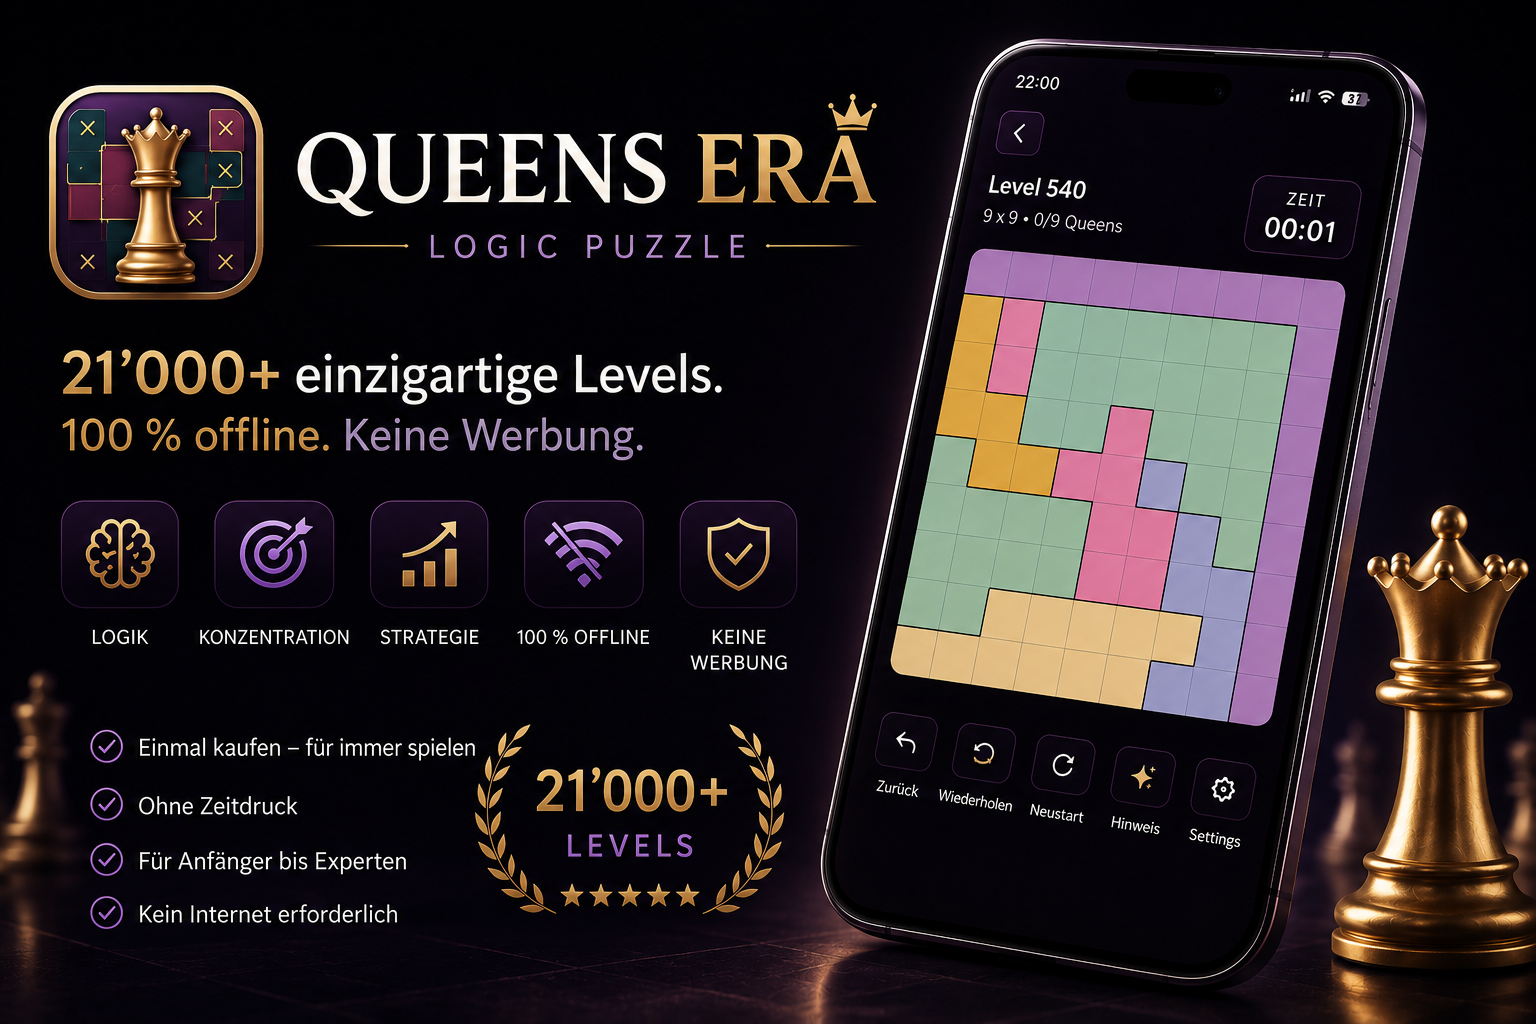
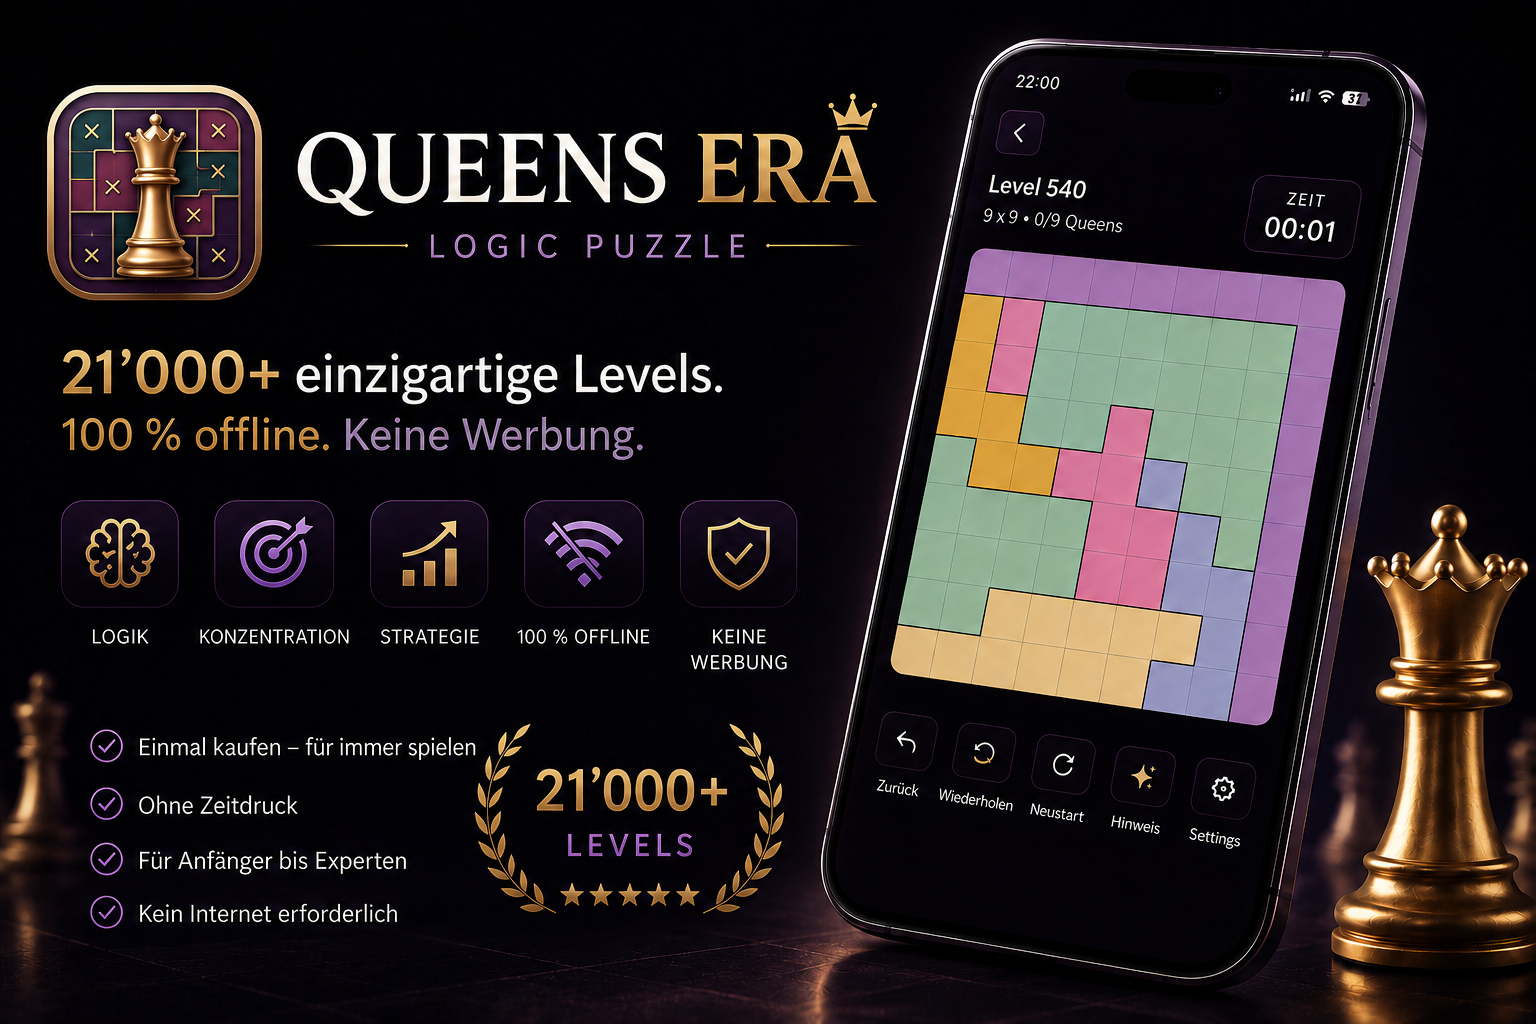
Publish Queens Era release content and localized legal links

diff --git a/i18n.js b/i18n.js
@@ -1432,7 +1432,29 @@ Object.assign(translations.it, {
   "queensSupport.deletion.copy": "I dati locali dell’app possono essere eliminati tramite «Impostazioni → Reimposta tutti i progressi». I dati di acquisto RevenueCat possono essere eliminati direttamente nell’app tramite «Impostazioni → Privacy → Elimina dati di acquisto RevenueCat», finché l’app è installata. La ricevuta di acquisto resta memorizzata presso Apple o Google."
 });
 
-;
+Object.assign(translations.de, {
+  "queensPrivacy.noProfile.title": "Löschung ohne RevenueCat-Profil",
+  "queensPrivacy.noProfile.copy": "Wenn die Kauf- oder Wiederherstellungsfunktion auf einer Installation noch nie geöffnet wurde, wurde RevenueCat dort nicht aktiviert und es besteht kein RevenueCat-Profil. Die Löschfunktion bleibt dennoch erreichbar und entfernt in diesem Fall lediglich eventuell lokal zwischengespeicherte Kaufdaten, ohne ein RevenueCat-Profil anzulegen.",
+  "queensPrivacy.updated.copy": "2. August 2026"
+});
+
+Object.assign(translations.en, {
+  "queensPrivacy.noProfile.title": "Deletion when no RevenueCat profile exists",
+  "queensPrivacy.noProfile.copy": "If the purchase or restore function has never been opened on an installation, RevenueCat has not been activated there and no RevenueCat profile exists. The deletion function remains available and in this case only removes any locally cached purchase data without creating a RevenueCat profile.",
+  "queensPrivacy.updated.copy": "August 2, 2026"
+});
+
+Object.assign(translations.fr, {
+  "queensPrivacy.noProfile.title": "Suppression sans profil RevenueCat",
+  "queensPrivacy.noProfile.copy": "Si la fonction d’achat ou de restauration n’a jamais été ouverte sur une installation, RevenueCat n’y a pas été activé et aucun profil RevenueCat n’existe. La fonction de suppression reste disponible et ne supprime alors que les éventuelles données d’achat mises en cache localement, sans créer de profil RevenueCat.",
+  "queensPrivacy.updated.copy": "2 août 2026"
+});
+
+Object.assign(translations.it, {
+  "queensPrivacy.noProfile.title": "Eliminazione senza profilo RevenueCat",
+  "queensPrivacy.noProfile.copy": "Se la funzione di acquisto o ripristino non è mai stata aperta in un’installazione, RevenueCat non è stato attivato e non esiste alcun profilo RevenueCat. La funzione di eliminazione resta comunque disponibile e in questo caso rimuove soltanto eventuali dati di acquisto memorizzati localmente, senza creare un profilo RevenueCat.",
+  "queensPrivacy.updated.copy": "2 agosto 2026"
+});
 
 const queensStoreBadges = {
   de: {
@@ -1532,7 +1554,13 @@ try {
   savedLanguage = "de";
 }
 
-applyLanguage(savedLanguage);
+// Links opened from an app can pin the language explicitly. This must win over
+// an older browser preference; otherwise an English app could still land on a
+// German legal document (or vice versa).
+const linkedLanguage = new URLSearchParams(window.location.search).get("lang");
+applyLanguage(
+  Object.prototype.hasOwnProperty.call(translations, linkedLanguage) ? linkedLanguage : savedLanguage,
+);
 
 if (trigger && menu) {
   trigger.addEventListener("click", () => {

diff --git a/queens-era.html b/queens-era.html
@@ -9,11 +9,11 @@
     <meta property="og:description" content="Ruhige Logikr&auml;tsel ohne Konto und ohne Werbung. Demn&auml;chst f&uuml;r iPhone und Android: 50 Levels gratis, danach Vollversion als einmaliger Kauf." data-i18n="queens.meta.ogDescription" data-i18n-attr="content" />
     <meta property="og:type" content="website" />
     <meta property="og:url" content="https://wittmerappcare.ch/queens-era" />
-    <meta property="og:image" content="https://wittmerappcare.ch/images/queens-era-hero.png" />
+    <meta property="og:image" content="https://wittmerappcare.ch/images/queens-era-hero.png?v=2" />
     <link rel="canonical" href="https://wittmerappcare.ch/queens-era" />
-    <link rel="icon" href="/images/queens-era-app-icon.png?v=2" type="image/png" />
-    <link rel="apple-touch-icon" href="/images/queens-era-app-icon.png?v=2" />
-    <link rel="stylesheet" href="styles.css?v=16" />
+    <link rel="icon" href="/images/queens-era-app-icon.png?v=4" type="image/png" />
+    <link rel="apple-touch-icon" href="/images/queens-era-app-icon.png?v=4" />
+    <link rel="stylesheet" href="styles.css?v=17" />
   </head>
   <body>
     <header class="site-header">
@@ -57,7 +57,7 @@
           <div class="product-hero-copy">
             <a class="back-link product-back" href="/#arbeiten" data-i18n="queens.back">Zur&uuml;ck zur Projekt&uuml;bersicht</a>
             <div class="product-topline">
-              <span class="product-icon-wrap"><img class="product-icon" src="images/queens-era-app-icon.png" alt="Queens Era Icon" data-i18n="queens.hero.iconAlt" data-i18n-attr="alt" /></span>
+              <span class="product-icon-wrap"><img class="product-icon" src="images/queens-era-app-icon.png?v=4" alt="Queens Era Icon" data-i18n="queens.hero.iconAlt" data-i18n-attr="alt" /></span>
               <p class="eyebrow" data-i18n="queens.kicker">Projekt 04 / 2026</p>
             </div>
             <h1>Queens Era</h1>
@@ -75,7 +75,7 @@
             </div>
           </div>
           <div class="product-hero-media">
-            <img class="product-hero-art queens-hero-art" src="images/queens-era-hero.png" alt="Queens Era mit App-Icon, Spielfeld und Produktmerkmalen" data-i18n="queens.hero.mediaAlt" data-i18n-attr="alt" />
+            <img class="product-hero-art queens-hero-art" src="images/queens-era-hero.png?v=2" alt="Queens Era mit App-Icon, Spielfeld und Produktmerkmalen" data-i18n="queens.hero.mediaAlt" data-i18n-attr="alt" />
           </div>
         </div>
       </section>
@@ -119,6 +119,6 @@
     </main>
 
     <footer class="site-footer"><div class="container footer-inner"><p data-i18n="footer.copy">&copy; 2026 Wittmer AppCare. Alle Rechte vorbehalten.</p><div class="footer-links"><a href="/queens-era/impressum.html" data-i18n="footer.imprint">Impressum</a><a href="/queens-era/datenschutz.html" data-i18n="footer.privacy">Datenschutz</a><a href="/queens-era/nutzungsbedingungen.html" data-i18n="footer.terms">Nutzungsbedingungen</a><a href="/queens-era/support.html" data-i18n="footer.support">Support</a></div></div></footer>
-    <script src="i18n.js?v=25"></script>
+    <script src="i18n.js?v=28"></script>
   </body>
 </html>

diff --git a/queens-era/datenschutz.html b/queens-era/datenschutz.html
@@ -6,9 +6,9 @@
     <title>Datenschutz Queens Era Offline | Wittmer AppCare</title>
     <meta name="description" content="Datenschutzerklärung für Queens Era, inklusive lokaler App-Daten und Kaufabwicklung über RevenueCat." data-i18n="queensPrivacy.meta.description" data-i18n-attr="content" />
     <link rel="canonical" href="https://wittmerappcare.ch/queens-era/datenschutz" />
-    <link rel="icon" href="/images/queens-era-app-icon.png" type="image/png" />
-    <link rel="apple-touch-icon" href="/images/queens-era-app-icon.png" />
-    <link rel="stylesheet" href="/styles.css?v=16" />
+    <link rel="icon" href="/images/queens-era-app-icon.png?v=4" type="image/png" />
+    <link rel="apple-touch-icon" href="/images/queens-era-app-icon.png?v=4" />
+    <link rel="stylesheet" href="/styles.css?v=17" />
   </head>
   <body class="queens-legal-page queens-privacy-page">
     <header class="site-header">
@@ -91,6 +91,11 @@
         </section>
 
         <section class="legal-box">
+          <h2 data-i18n="queensPrivacy.noProfile.title">Löschung ohne RevenueCat-Profil</h2>
+          <p data-i18n="queensPrivacy.noProfile.copy">Wenn die Kauf- oder Wiederherstellungsfunktion auf einer Installation noch nie geöffnet wurde, wurde RevenueCat dort nicht aktiviert und es besteht kein RevenueCat-Profil. Die Löschfunktion bleibt dennoch erreichbar und entfernt in diesem Fall lediglich eventuell lokal zwischengespeicherte Kaufdaten, ohne ein RevenueCat-Profil anzulegen.</p>
+        </section>
+
+        <section class="legal-box">
           <h2 data-i18n="queensPrivacy.deletion.title">Persönliche Kaufdaten bei RevenueCat</h2>
           <p data-i18n="queensPrivacy.deletion.copy">RevenueCat-Kundendaten können direkt in der App unter „Einstellungen → Datenschutz → RevenueCat-Kaufdaten löschen“ gelöscht werden. Dafür wird die anonyme RevenueCat-App-User-ID an einen Lösch-Endpunkt von Wittmer AppCare übermittelt. Das aktuelle anonyme RevenueCat-Profil und dessen Kaufhistorie sowie der lokale Kaufstatus und die Erlaubnis für automatische Hintergrund-Abgleiche werden entfernt. Der Store-Kauf wird dadurch weder storniert noch erstattet. RevenueCat wird bei späteren App-Starts nicht mehr automatisch initialisiert; erst nach erneutem Öffnen der Kauf- oder Wiederherstellungsfunktion kann ein neues anonymes Profil entstehen.</p>
         </section>
@@ -129,7 +134,7 @@
 
         <section class="legal-box">
           <h2 data-i18n="queensPrivacy.updated.title">Stand</h2>
-          <p data-i18n="queensPrivacy.updated.copy">23. Juli 2026</p>
+          <p data-i18n="queensPrivacy.updated.copy">2. August 2026</p>
         </section>
       </div>
     </main>
@@ -145,6 +150,6 @@
         </div>
       </div>
     </footer>
-    <script src="/i18n.js?v=26"></script>
+    <script src="/i18n.js?v=28"></script>
   </body>
 </html>

diff --git a/index.html b/index.html
@@ -19,7 +19,7 @@
     <link rel="canonical" href="https://wittmerappcare.ch/" />
     <link rel="icon" href="/images/wittmer-appcare-logo-web.png?v=2" type="image/png" />
     <link rel="apple-touch-icon" href="/images/wittmer-appcare-logo-web.png?v=2" />
-    <link rel="stylesheet" href="styles.css?v=14" />
+    <link rel="stylesheet" href="styles.css?v=17" />
   </head>
   <body>
     <header class="site-header">
@@ -169,7 +169,7 @@
           <article class="work-row">
             <div>
               <div class="project-title">
-                <img class="project-icon" src="images/queens-era-app-icon.png" alt="" width="64" height="64" />
+                <img class="project-icon queens-project-icon" src="images/queens-era-app-icon.png?v=4" alt="" width="64" height="64" />
                 <h3 data-i18n="work.fourth.title">Queens Era</h3>
               </div>
               <p data-i18n="work.fourth.copy">
@@ -384,6 +384,6 @@
         </div>
       </div>
     </footer>
-    <script src="/i18n.js?v=25"></script>
+    <script src="/i18n.js?v=28"></script>
   </body>
 </html>

diff --git a/queens-era/nutzungsbedingungen.html b/queens-era/nutzungsbedingungen.html
@@ -6,9 +6,9 @@
     <title>Nutzungsbedingungen Queens Era Offline | Wittmer AppCare</title>
     <meta name="description" content="Nutzungsbedingungen für Queens Era von Wittmer AppCare." data-i18n="queensTerms.meta.description" data-i18n-attr="content" />
     <link rel="canonical" href="https://wittmerappcare.ch/queens-era/nutzungsbedingungen" />
-    <link rel="icon" href="/images/queens-era-app-icon.png" type="image/png" />
-    <link rel="apple-touch-icon" href="/images/queens-era-app-icon.png" />
-    <link rel="stylesheet" href="/styles.css?v=16" />
+    <link rel="icon" href="/images/queens-era-app-icon.png?v=4" type="image/png" />
+    <link rel="apple-touch-icon" href="/images/queens-era-app-icon.png?v=4" />
+    <link rel="stylesheet" href="/styles.css?v=17" />
   </head>
   <body class="queens-legal-page queens-terms-page">
     <header class="site-header">
@@ -121,6 +121,6 @@
         </div>
       </div>
     </footer>
-    <script src="/i18n.js?v=26"></script>
+    <script src="/i18n.js?v=28"></script>
   </body>
 </html>

diff --git a/queens-era/impressum.html b/queens-era/impressum.html
@@ -6,9 +6,9 @@
     <title>Impressum Queens Era Offline | Wittmer AppCare</title>
     <meta name="description" content="Anbieterinformationen zu Queens Era von Wittmer AppCare." data-i18n="queensImprint.meta.description" data-i18n-attr="content" />
     <link rel="canonical" href="https://wittmerappcare.ch/queens-era/impressum" />
-    <link rel="icon" href="/images/queens-era-app-icon.png" type="image/png" />
-    <link rel="apple-touch-icon" href="/images/queens-era-app-icon.png" />
-    <link rel="stylesheet" href="/styles.css?v=16" />
+    <link rel="icon" href="/images/queens-era-app-icon.png?v=4" type="image/png" />
+    <link rel="apple-touch-icon" href="/images/queens-era-app-icon.png?v=4" />
+    <link rel="stylesheet" href="/styles.css?v=17" />
   </head>
   <body class="queens-legal-page queens-imprint-page">
     <header class="site-header">
@@ -85,6 +85,6 @@
         </div>
       </div>
     </footer>
-    <script src="/i18n.js?v=25"></script>
+    <script src="/i18n.js?v=28"></script>
   </body>
 </html>

diff --git a/queens-era/support.html b/queens-era/support.html
@@ -6,9 +6,9 @@
     <title>Support Queens Era Offline | Wittmer AppCare</title>
     <meta name="description" content="Support und Kontakt für Queens Era." data-i18n="queensSupport.meta.description" data-i18n-attr="content" />
     <link rel="canonical" href="https://wittmerappcare.ch/queens-era/support" />
-    <link rel="icon" href="/images/queens-era-app-icon.png" type="image/png" />
-    <link rel="apple-touch-icon" href="/images/queens-era-app-icon.png" />
-    <link rel="stylesheet" href="/styles.css?v=16" />
+    <link rel="icon" href="/images/queens-era-app-icon.png?v=4" type="image/png" />
+    <link rel="apple-touch-icon" href="/images/queens-era-app-icon.png?v=4" />
+    <link rel="stylesheet" href="/styles.css?v=17" />
   </head>
   <body class="queens-legal-page queens-support-page">
     <header class="site-header">
@@ -76,6 +76,6 @@
         </div>
       </div>
     </footer>
-    <script src="/i18n.js?v=25"></script>
+    <script src="/i18n.js?v=28"></script>
   </body>
 </html>

diff --git a/styles.css b/styles.css
@@ -1329,6 +1329,30 @@ h3 {
   color: #885b8f;
 }
 
+.queens-project-icon,
+.queens-product-main .product-icon {
+  object-fit: cover;
+  background: transparent;
+  box-shadow: none;
+}
+
+.queens-project-icon {
+  width: 64px;
+  height: 65px;
+  border-radius: 16px;
+}
+
+.queens-product-main .product-icon-wrap,
+.queens-product-main .product-icon {
+  width: 88px;
+  height: 90px;
+  border-radius: 20px;
+}
+
+.queens-product-main .product-icon-wrap {
+  overflow: hidden;
+}
+
 .queens-launch {
   margin-top: 30px;
 }
@@ -1406,6 +1430,19 @@ h3 {
 }
 
 @media (max-width: 700px) {
+  .queens-project-icon {
+    width: 56px;
+    height: 57px;
+    border-radius: 14px;
+  }
+
+  .queens-product-main .product-icon-wrap,
+  .queens-product-main .product-icon {
+    width: 60px;
+    height: 61px;
+    border-radius: 14px;
+  }
+
   .queens-launch {
     margin-top: 24px;
   }

diff --git a/datenschutz.html b/datenschutz.html
@@ -152,6 +152,6 @@
         </div>
       </div>
     </footer>
-    <script src="/i18n.js?v=25"></script>
+    <script src="/i18n.js?v=28"></script>
   </body>
 </html>

diff --git a/impressum.html b/impressum.html
@@ -102,6 +102,6 @@
         </div>
       </div>
     </footer>
-    <script src="/i18n.js?v=25"></script>
+    <script src="/i18n.js?v=28"></script>
   </body>
 </html>

diff --git a/404.html b/404.html
@@ -83,6 +83,6 @@
         </div>
       </div>
     </footer>
-    <script src="/i18n.js?v=25"></script>
+    <script src="/i18n.js?v=28"></script>
   </body>
 </html>

diff --git a/saldocare.html b/saldocare.html
@@ -274,6 +274,6 @@
       </div>
     </footer>
 
-    <script src="/i18n.js?v=25"></script>
+    <script src="/i18n.js?v=28"></script>
   </body>
 </html>
